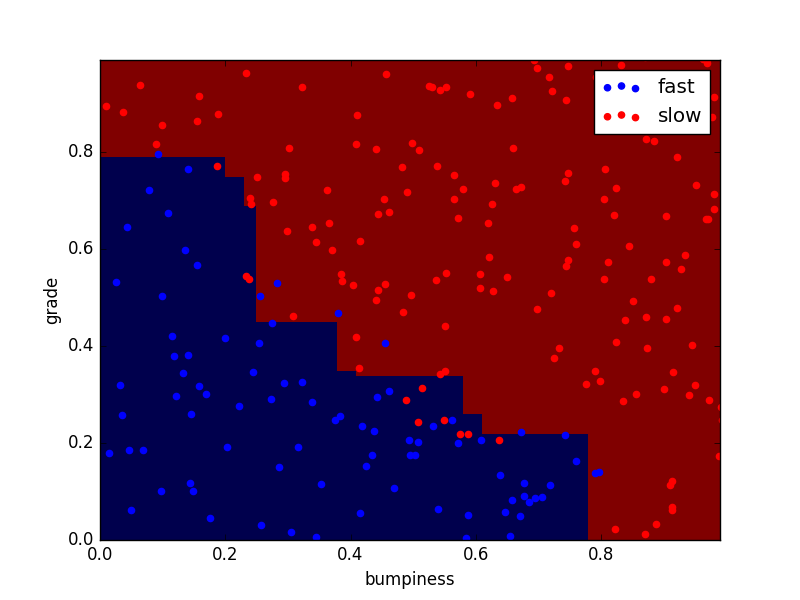
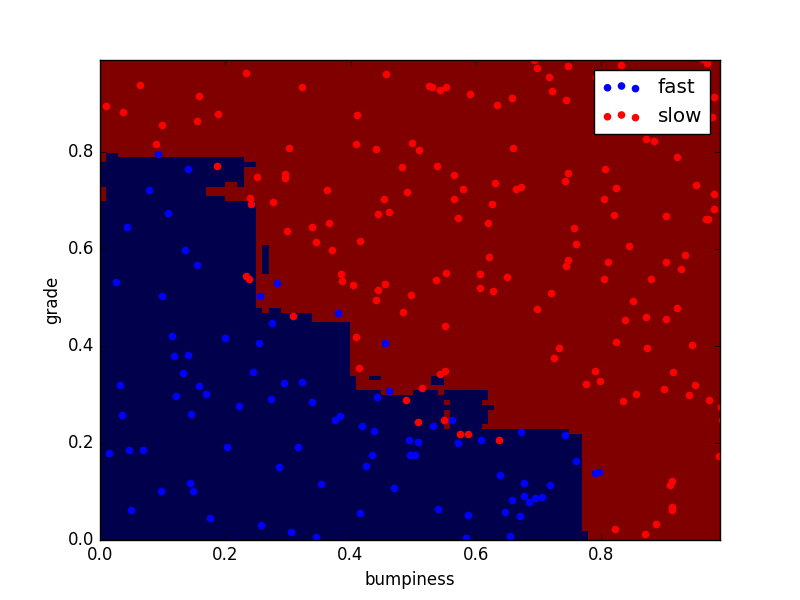
finish hoose your own algorithm

diff --git a/ud120-projects-master/choose_your_own/your_algorithm_kNN.py b/ud120-projects-master/choose_your_own/your_algorithm_kNN.py
@@ -32,24 +32,14 @@ plt.show()
 ### visualization code (prettyPicture) to show you the decision boundary
 
 from sklearn.metrics import accuracy_score
-
-#from sklearn.neighbors.nearest_centroid import NearestCentroid
-#clf = NearestCentroid()
-#clf = fit(features_train, labels_train)
-#pred = clf.predict(features_test)
-
 from sklearn.neighbors import KNeighborsClassifier
-clf = KNeighborsClassifier()
-print 'Training starts'
+
+n_neighbors = 38
+
+clf = KNeighborsClassifier(n_neighbors)
 clf = clf.fit(features_train, labels_train)
-print 'Training complete'
-
-print 'Beginning prediction'
 pred = clf.predict(features_test)
-print 'Prediction finishes'
 
-from sklearn.metrics import accuracy_score
-print 'Calculating Accuracy'
 accuracy = accuracy_score(labels_test, pred)
 print 'The accuracy is ', accuracy
 
@@ -57,3 +47,23 @@ try:
     prettyPicture(clf, features_test, labels_test)
 except NameError:
     pass
+
+# The accuracy is  0.92
+
+# n_neighbors = 35
+# The accuracy is 0.932
+
+# n_neighbors = 36
+# The accuracy is 0.928
+
+# n_neighbors = 37, 38, 39, 42
+# The accuracy is 0.932
+
+# n_neighbors = 50
+# The accuracy is 0.928
+
+
+
+
+
+

diff --git a/ud120-projects-master/choose_your_own/your_algorithm_randomForest.py b/ud120-projects-master/choose_your_own/your_algorithm_randomForest.py
@@ -36,15 +36,11 @@ from sklearn.metrics import accuracy_score
 from sklearn import datasets
 from sklearn.tree import DecisionTreeClassifier
 from sklearn.metrics import zero_one_loss
-from sklearn.ensemble import AdaBoostClassifier
+from sklearn.ensemble import RandomForestClassifier
 
-X_test, y_test = features_test, labels_test
-X_train, y_train = features_train, labels_train
 
 # Create and fit an AdaBoosted decision tree
-clf = AdaBoostClassifier(DecisionTreeClassifier(max_depth=1),
-                         algorithm="SAMME",
-                         n_estimators=50)
+clf = RandomForestClassifier(n_estimators=5)
 
 clf.fit(features_train, labels_train)
 
@@ -59,14 +55,14 @@ try:
 except NameError:
     pass
 
-# n_estimators=400
-# acc: 0.924
+# n_estimators=25
+# acc: 0.916
 
-# n_estimators=400
-# acc: 0.924
+# n_estimators=10
+# acc: 0.92
 
-# n_estimators=400
-# acc: 0.924
+# n_estimators=6
+# acc: 0.932
 
-# n_estimators=400
+# n_estimators=700
 # acc: 0.924
